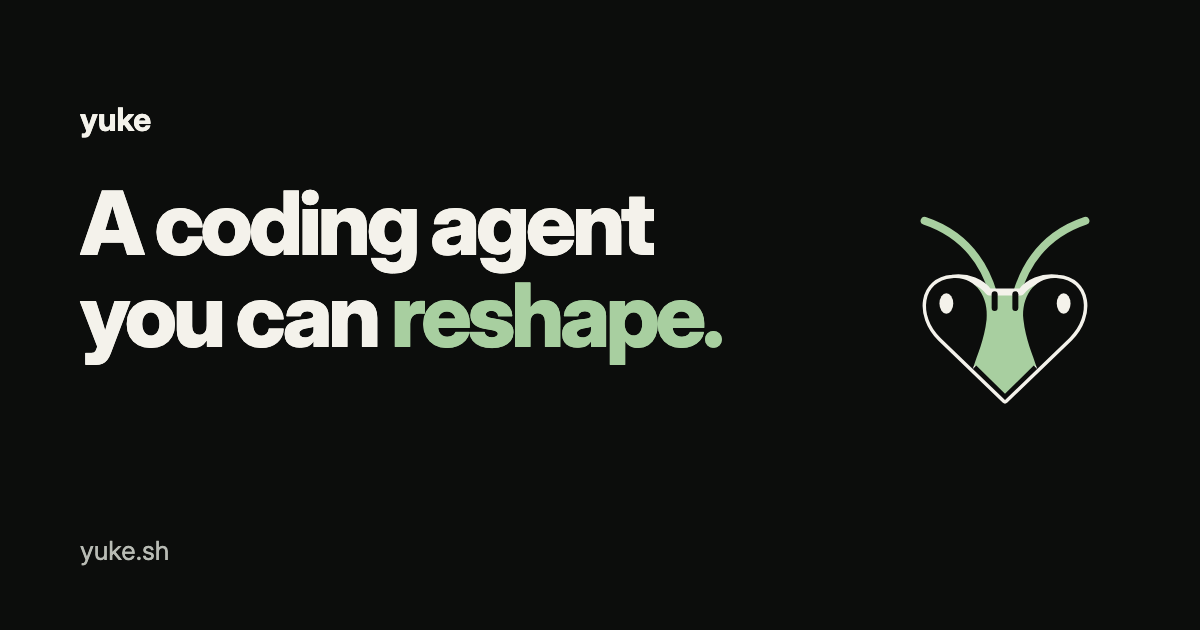
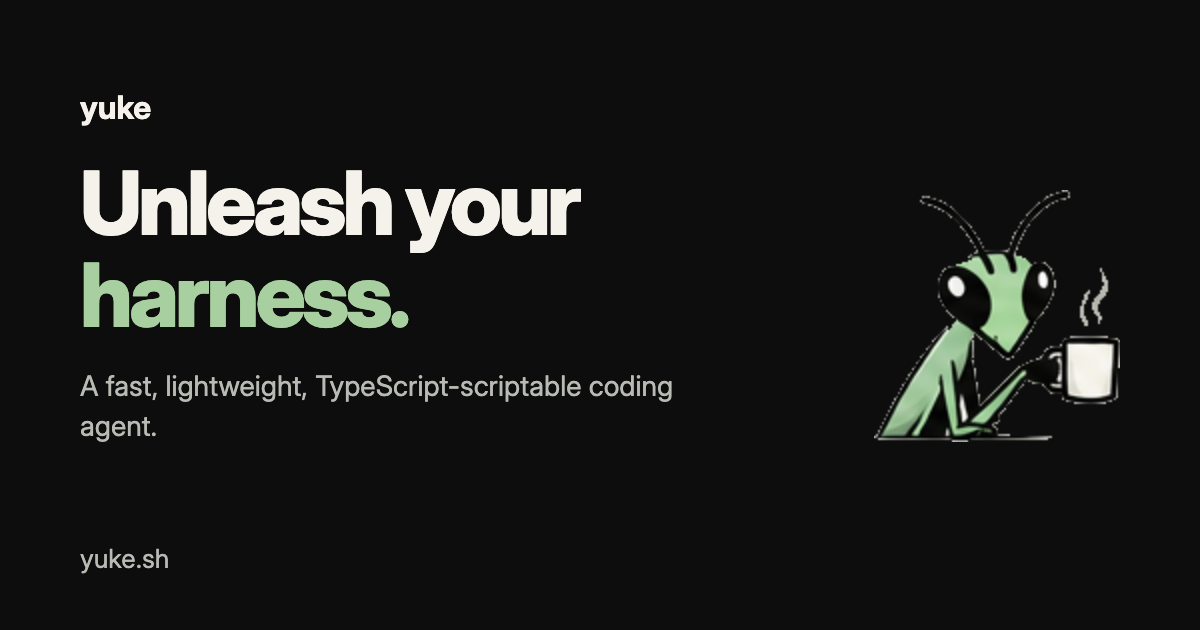
Update the site headline and restore the coffee mantis

diff --git a/website/images/card.html b/website/images/card.html
@@ -5,16 +5,18 @@
   @font-face { font-family: Inter; font-weight: 100 900; src: url('../node_modules/vitepress/dist/client/theme-default/fonts/inter-roman-latin.woff2'); }
   html, body { margin: 0; width: 1200px; height: 630px; overflow: hidden; }
   body { background: #0c0d0c; color: #f4f2eb; font-family: Inter, sans-serif; }
-  .text { position: absolute; left: 80px; top: 100px; width: 760px; }
+  .text { position: absolute; left: 80px; top: 88px; width: 730px; }
   .name { margin: 0; font-size: 32px; font-weight: 700; }
-  h1 { margin: 38px 0 0; font-size: 88px; font-weight: 800; letter-spacing: -0.045em; line-height: 1.05; }
+  h1 { margin: 30px 0 0; font-size: 88px; font-weight: 800; letter-spacing: -0.045em; line-height: 1.05; }
   h1 span { color: #a8cfa0; }
-  .site { position: absolute; left: 80px; bottom: 64px; color: #b8bbb4; font-size: 26px; }
-  img { position: absolute; right: 80px; top: 200px; width: 230px; height: 230px; }
+  .lead { margin: 24px 0 0; max-width: 660px; color: #b8bbb4; font-size: 28px; line-height: 1.45; }
+  .site { position: absolute; left: 80px; bottom: 56px; color: #b8bbb4; font-size: 26px; }
+  img { position: absolute; right: 80px; top: 190px; width: 246px; height: 252px; }
 </style>
 <div class="text">
   <p class="name">yuke</p>
-  <h1>A coding agent<br>you can <span>reshape.</span></h1>
+  <h1>Unleash your<br><span>harness.</span></h1>
+  <p class="lead">A fast, lightweight, TypeScript-scriptable coding agent.</p>
 </div>
 <div class="site">yuke.sh</div>
-<img src="../public/logo-dark.svg" alt="">
+<img src="../public/mascot/coffee.png" alt="">

diff --git a/website/.vitepress/theme/Hero.vue b/website/.vitepress/theme/Hero.vue
@@ -7,21 +7,26 @@ const { frontmatter } = useData();
 
 <template>
   <section class="hero yuke-section">
-    <h1 class="yuke-heading">A coding agent<br>you can <span>reshape.</span></h1>
+    <img class="mascot" :src="withBase('/mascot/coffee.png')" alt="" width="123" height="126" />
+    <h1 class="yuke-heading">Unleash your <span>harness.</span></h1>
     <p class="lead">{{ frontmatter.tagline }}</p>
     <InstallCommand class="install" />
-    <p class="platforms">Pre-release · macOS and Linux · No Node or Python runtime required</p>
     <p class="links">
       <a :href="withBase('/docs/get-started')">Quick start <span aria-hidden="true">→</span></a>
-      <a :href="withBase('/install.sh')">View install script <span aria-hidden="true">↗</span></a>
+      <a :href="withBase('/docs/plugins')">Plugins <span aria-hidden="true">→</span></a>
     </p>
   </section>
 </template>
 
 <style scoped>
 .hero {
-  padding-top: 104px;
+  padding-top: 64px;
   text-align: center;
+}
+
+.mascot {
+  display: block;
+  margin: 0 auto 24px;
 }
 
 h1 {
@@ -48,14 +53,6 @@ h1 span {
   text-align: left;
 }
 
-.platforms {
-  margin: 14px auto 0;
-  max-width: 520px;
-  color: var(--vp-c-text-2);
-  font-size: 12px;
-  line-height: 1.6;
-}
-
 .links {
   display: flex;
   flex-wrap: wrap;
@@ -78,7 +75,7 @@ h1 span {
 
 @media (max-width: 639px) {
   .hero {
-    padding-top: 64px;
+    padding-top: 40px;
   }
 }
 </style>

diff --git a/website/.vitepress/theme/Capabilities.vue b/website/.vitepress/theme/Capabilities.vue
@@ -5,11 +5,11 @@ import { withBase } from 'vitepress';
 <template>
   <section class="capabilities yuke-section" aria-labelledby="capabilities-title">
     <div class="content">
-      <h2 id="capabilities-title">Your model. Your tools. Your workflow.</h2>
+      <h2 id="capabilities-title">Features</h2>
       <ul>
-        <li>Change commands, keys, and views with <a :href="withBase('/docs/first-plugin')">plugins</a>.</li>
-        <li>Add model tools and control the run with <a :href="withBase('/docs/tools')">tools</a> and <a :href="withBase('/docs/engine')">hooks</a>.</li>
-        <li>Use a cloud provider or a local model server. <a :href="withBase('/docs/providers')">Connect a model →</a></li>
+        <li>Run a native binary through the terminal UI or <a :href="withBase('/docs/profile#modes')">RPC</a>.</li>
+        <li>Write <a :href="withBase('/docs/first-plugin')">TypeScript plugins</a> to add tools, hooks, and views.</li>
+        <li>Use your API keys or a ChatGPT or Grok subscription. <a :href="withBase('/docs/providers')">Connect a model →</a></li>
       </ul>
     </div>
   </section>

diff --git a/docs/index.md b/docs/index.md
@@ -1,7 +1,7 @@
 ---
 layout: home
-title: A coding agent you can reshape
+title: Unleash your harness
 titleTemplate: 'yuke: :title'
-description: yuke is a native terminal coding agent. Change its interface, tools, and workflow with JavaScript or TypeScript plugins.
-tagline: A native terminal coding agent. Change its interface, tools, and workflow with JavaScript or TypeScript plugins.
+description: A fast, lightweight, TypeScript-scriptable coding agent.
+tagline: A fast, lightweight, TypeScript-scriptable coding agent.
 ---

diff --git a/README.md b/README.md
@@ -1,6 +1,6 @@
 # yuke
 
-A native terminal coding agent with JavaScript and TypeScript plugins.
+A fast, lightweight, TypeScript-scriptable coding agent.
 
 ## Development
 
